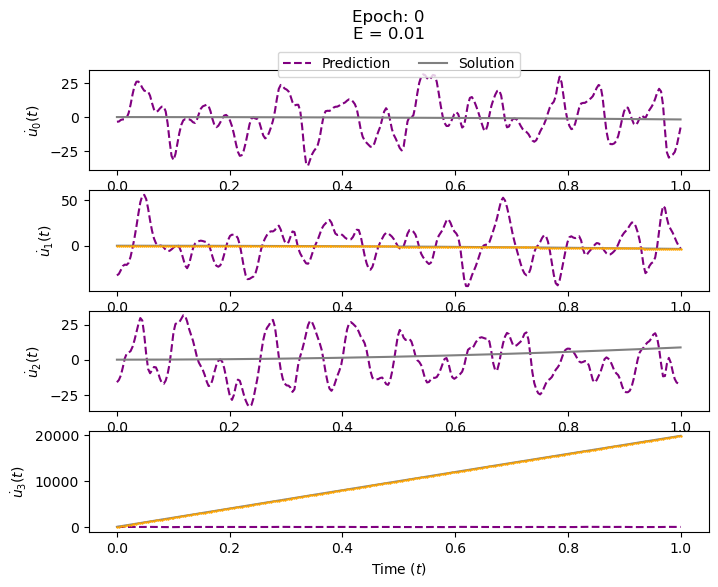
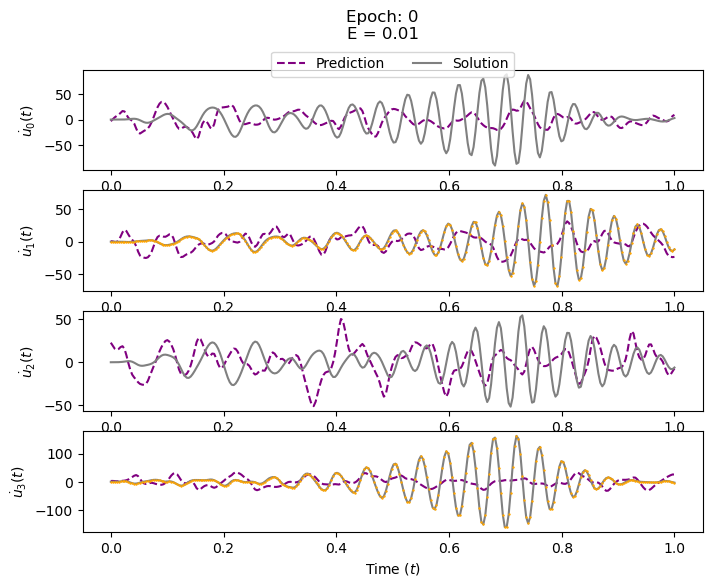
small model

diff --git a/execute.py b/execute.py
@@ -307,7 +307,7 @@ resampler = dde.callbacks.PDEPointResampler(period=1_000)
 
 # %%
 net = MsFNN(
-    layer_sizes=[1] + 5 * [100] + [4],
+    layer_sizes=[1] + 3 * [32] + [4],
     activation="tanh",
     kernel_initializer="Glorot uniform",
     sigmas=[1, 10, 50],
